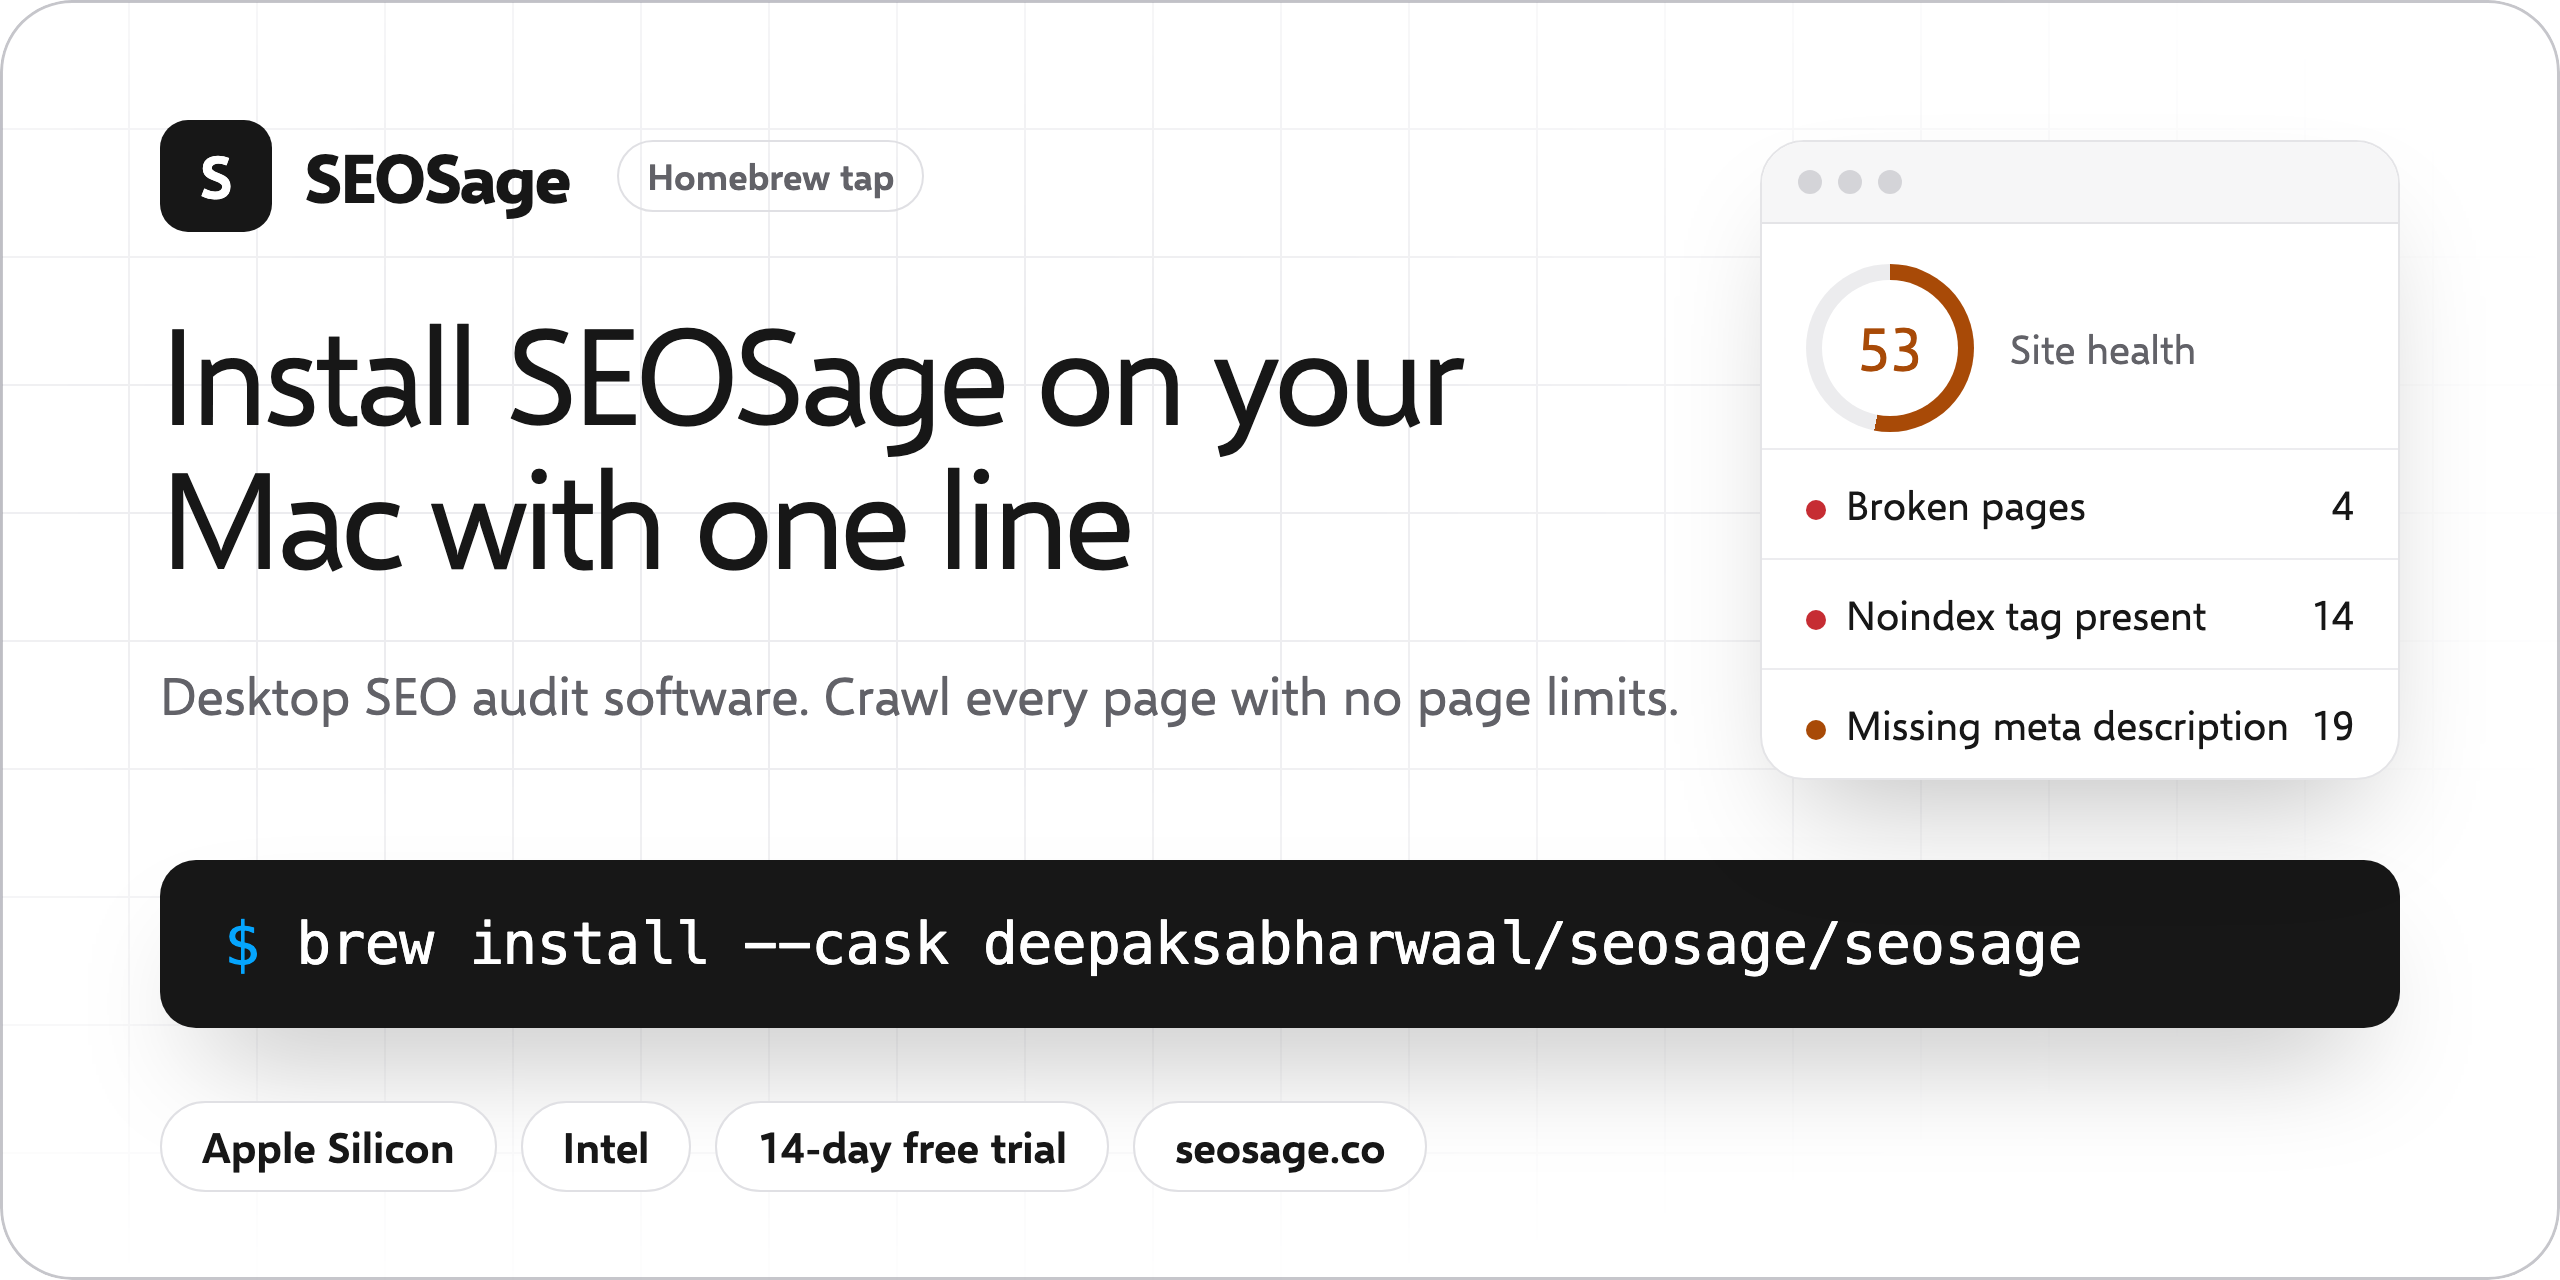
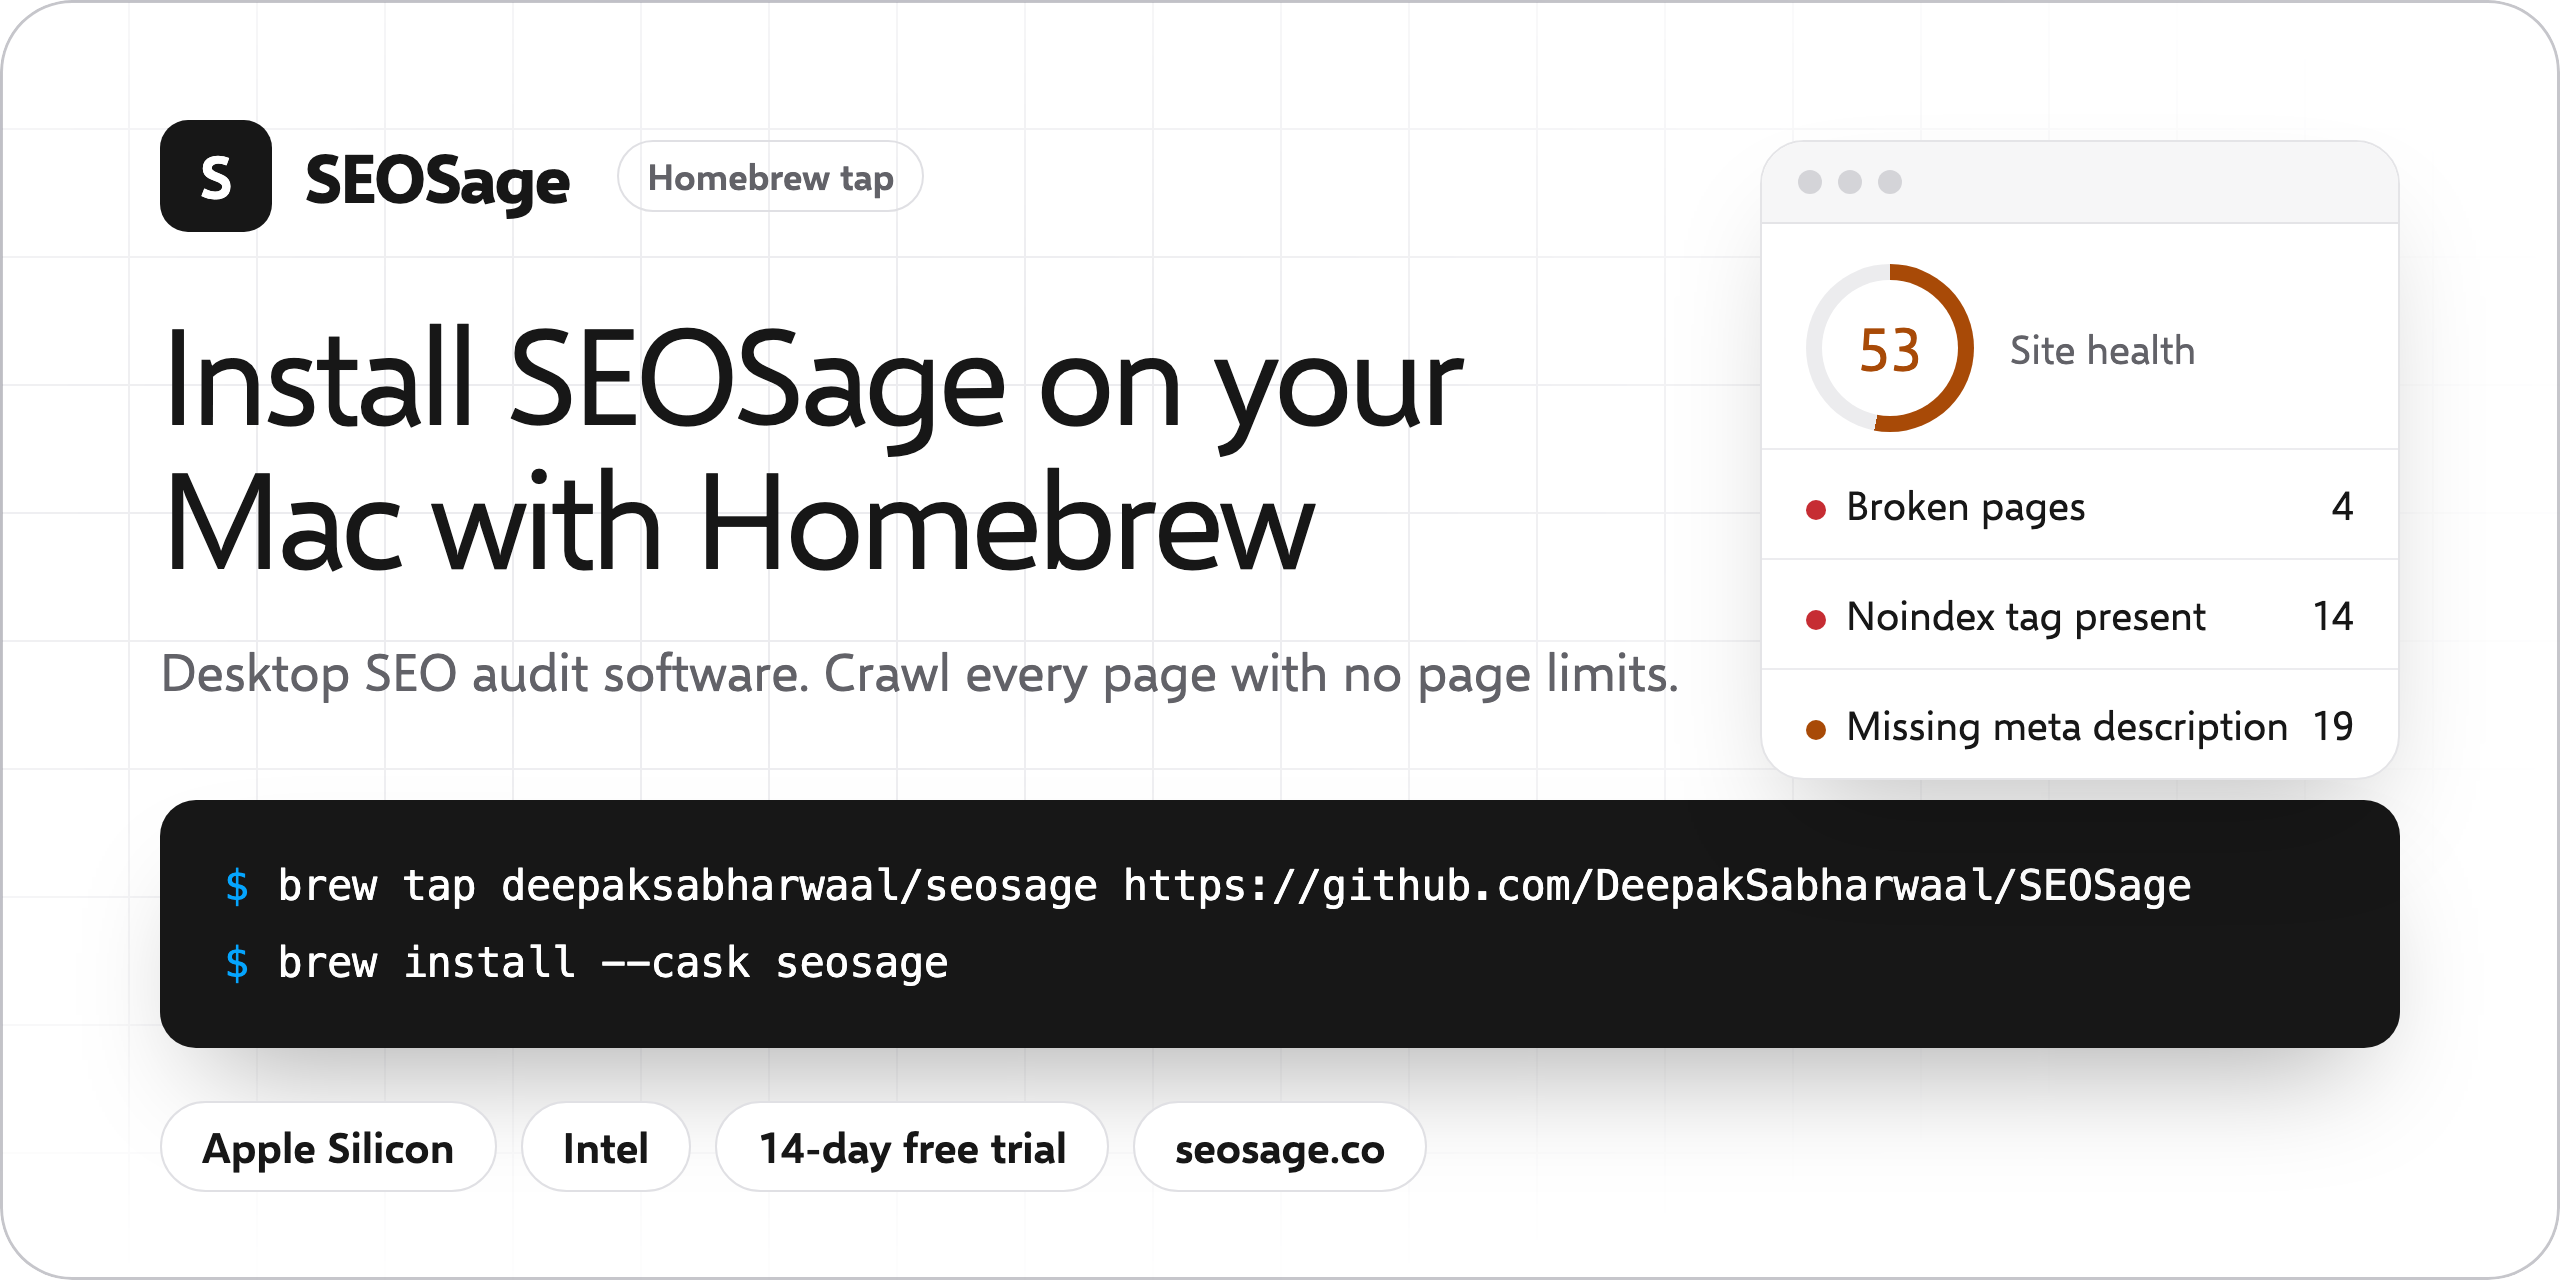
New repo name: install now taps the SEOSage repo by address

Changed region(s): [[0.0625, 0.625, 0.9375, 0.8438], [0.0625, 0.5, 0.6562, 0.5625], [0.25, 0.375, 0.5312, 0.4688]]

diff --git a/README.md b/README.md
@@ -1,19 +1,20 @@
 <p align="center">
-  <a href="https://seosage.co/"><img src="assets/banner.png?v=3" alt="SEOSage app for Mac: install the desktop SEO audit software with one Homebrew command" width="100%"></a>
+  <a href="https://seosage.co/"><img src="assets/banner.png?v=4" alt="SEOSage app for Mac: install the desktop SEO audit software with Homebrew" width="100%"></a>
 </p>
 
 # SEOSage app for Mac: Homebrew install
 
 [**SEOSage**](https://seosage.co/) is desktop SEO audit software for freelancers and small agencies. It crawls every page of your website with no page limits, finds the SEO problems, and exports client-ready reports. It runs on your own computer, so your crawl data stays with you.
 
-This repository is the official [Homebrew](https://brew.sh) tap for the SEOSage app. It only holds the install file. The app itself is commercial software and its code is not published here.
+This repository is the official [Homebrew](https://brew.sh) tap (the `brew tap` line adds this repository once) for the SEOSage app. It only holds the install file. The app itself is commercial software and its code is not published here.
 
 ## Install
 
-<p align="center"><img src="assets/install.png?v=3" alt="Terminal showing the brew commands to install, update and remove the SEOSage app" width="80%"></p>
+<p align="center"><img src="assets/install.png?v=4" alt="Terminal showing the brew commands to install, update and remove the SEOSage app" width="80%"></p>
 
 ```sh
-brew install --cask deepaksabharwaal/seosage/seosage
+brew tap deepaksabharwaal/seosage https://github.com/DeepakSabharwaal/SEOSage
+brew install --cask seosage
 ```
 
 Update later:
@@ -34,9 +35,9 @@ Works on Apple Silicon (M1, M2, M3, M4) and Intel Macs. Homebrew picks the right
 
 Crawl a whole site, see every issue grouped by type, click one to see the pages it affects, then export a report for your client. The screens below are from a real crawl of [marketingly.org](https://marketingly.org/).
 
-<p align="center"><img src="assets/screen-issues.png?v=3" alt="SEOSage app Issues screen listing errors, warnings and notices from a full site crawl" width="90%"></p>
+<p align="center"><img src="assets/screen-issues.png?v=4" alt="SEOSage app Issues screen listing errors, warnings and notices from a full site crawl" width="90%"></p>
 
-<p align="center"><img src="assets/screen-report.png?v=3" alt="SEOSage app Reports screen with site health score and export to CSV, PDF or PowerPoint" width="90%"></p>
+<p align="center"><img src="assets/screen-report.png?v=4" alt="SEOSage app Reports screen with site health score and export to CSV, PDF or PowerPoint" width="90%"></p>
 
 ## Licence
 
